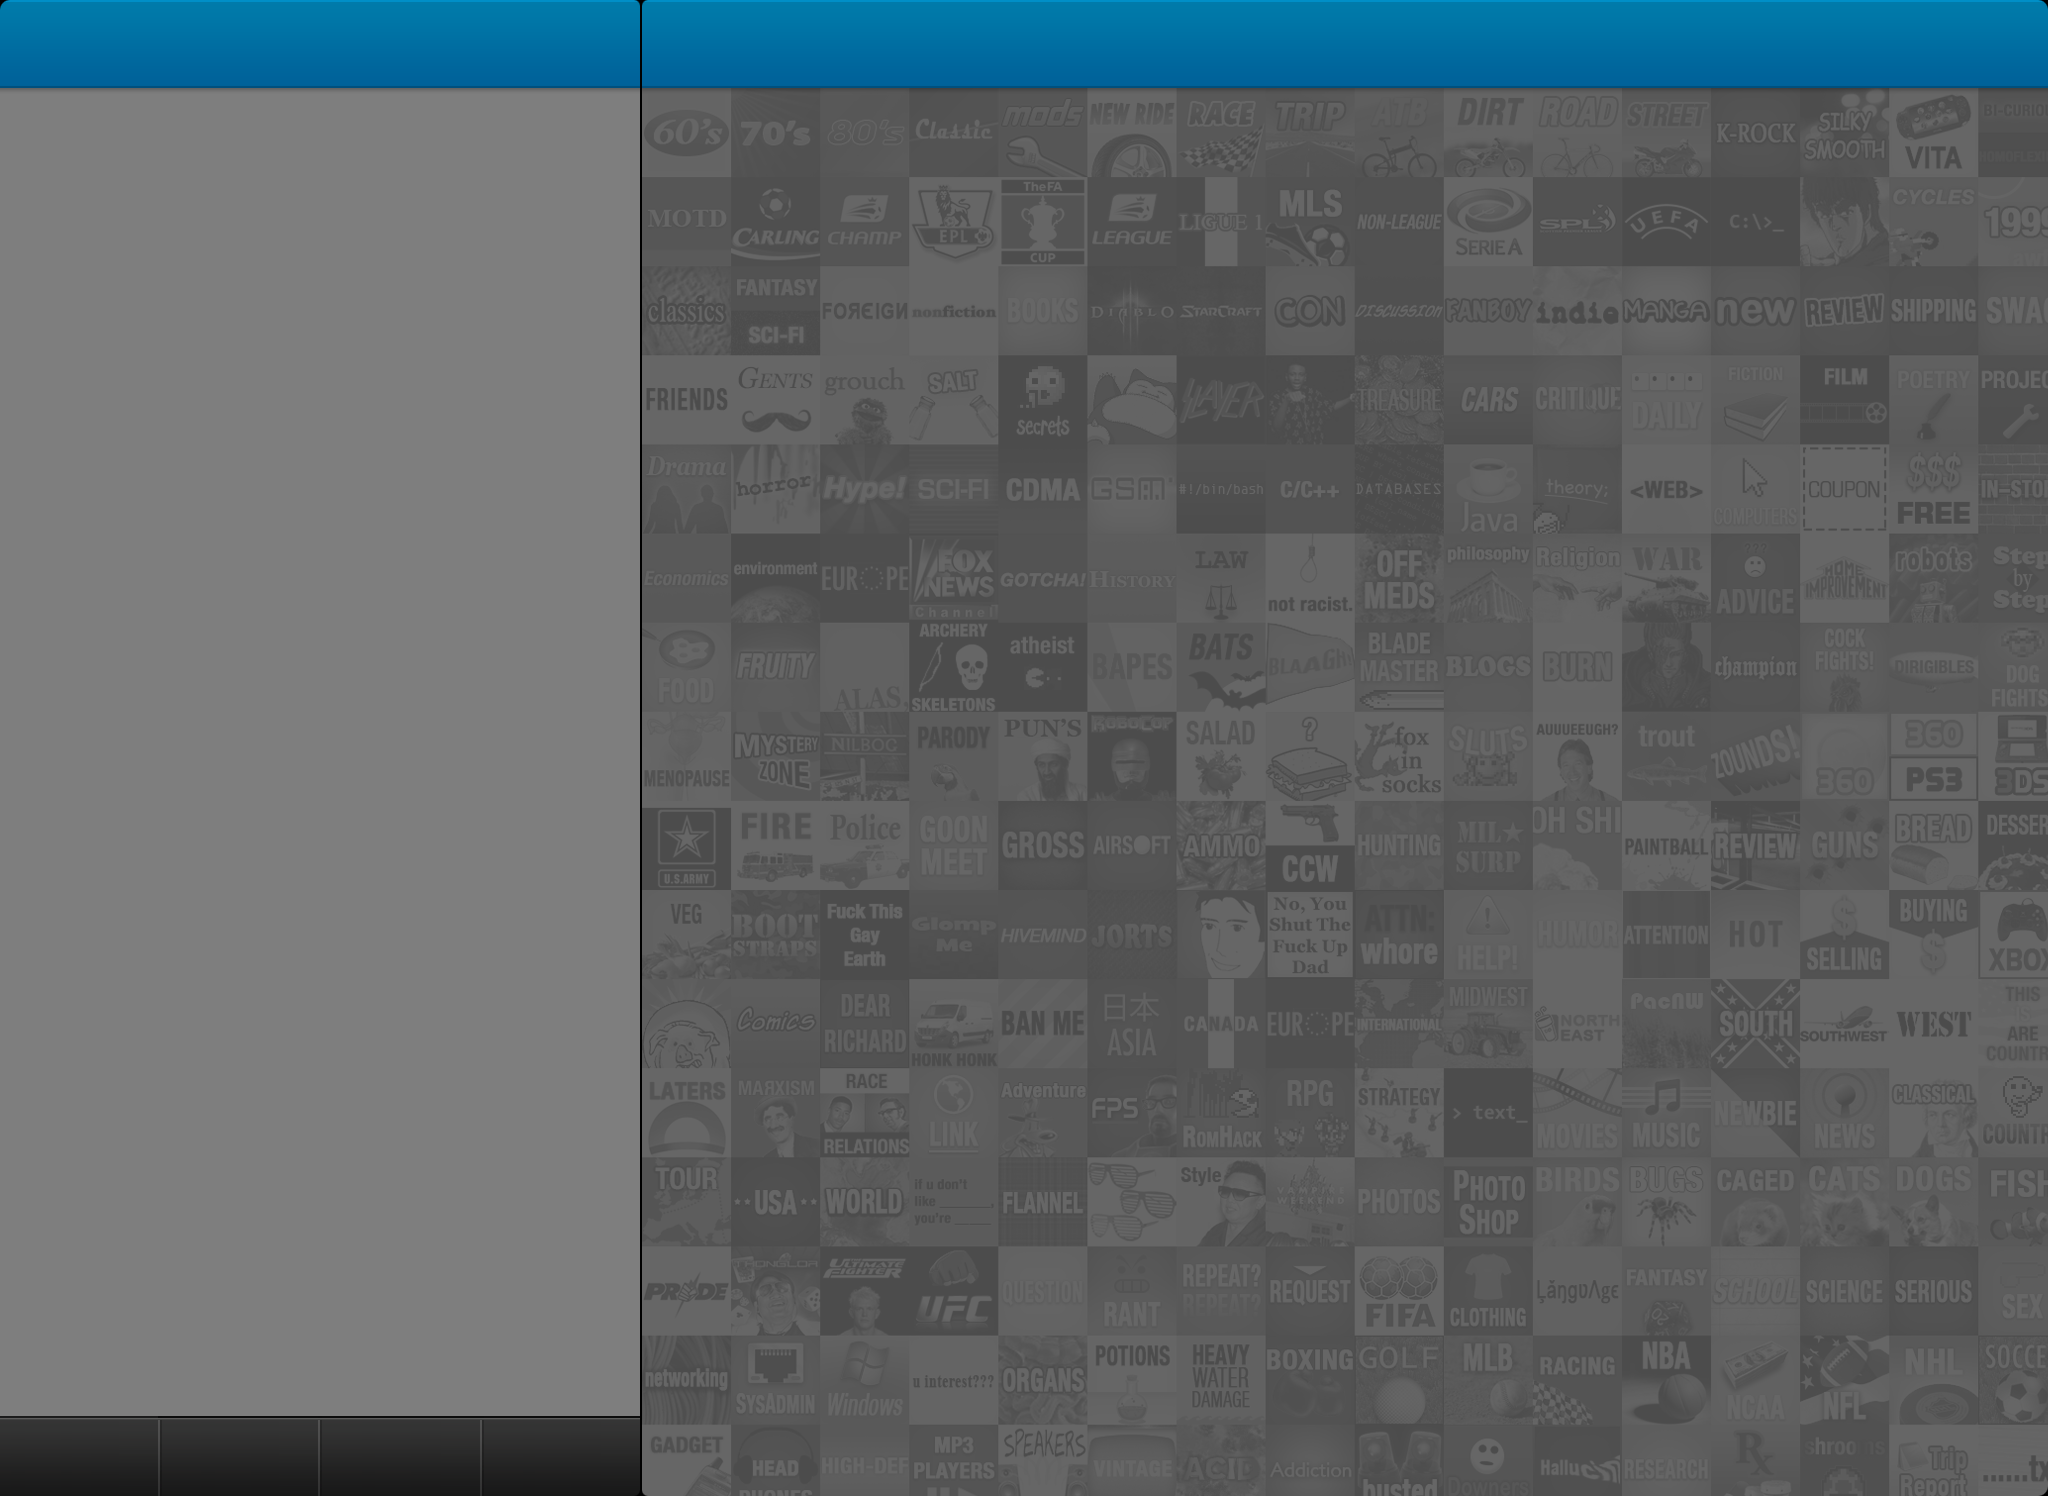
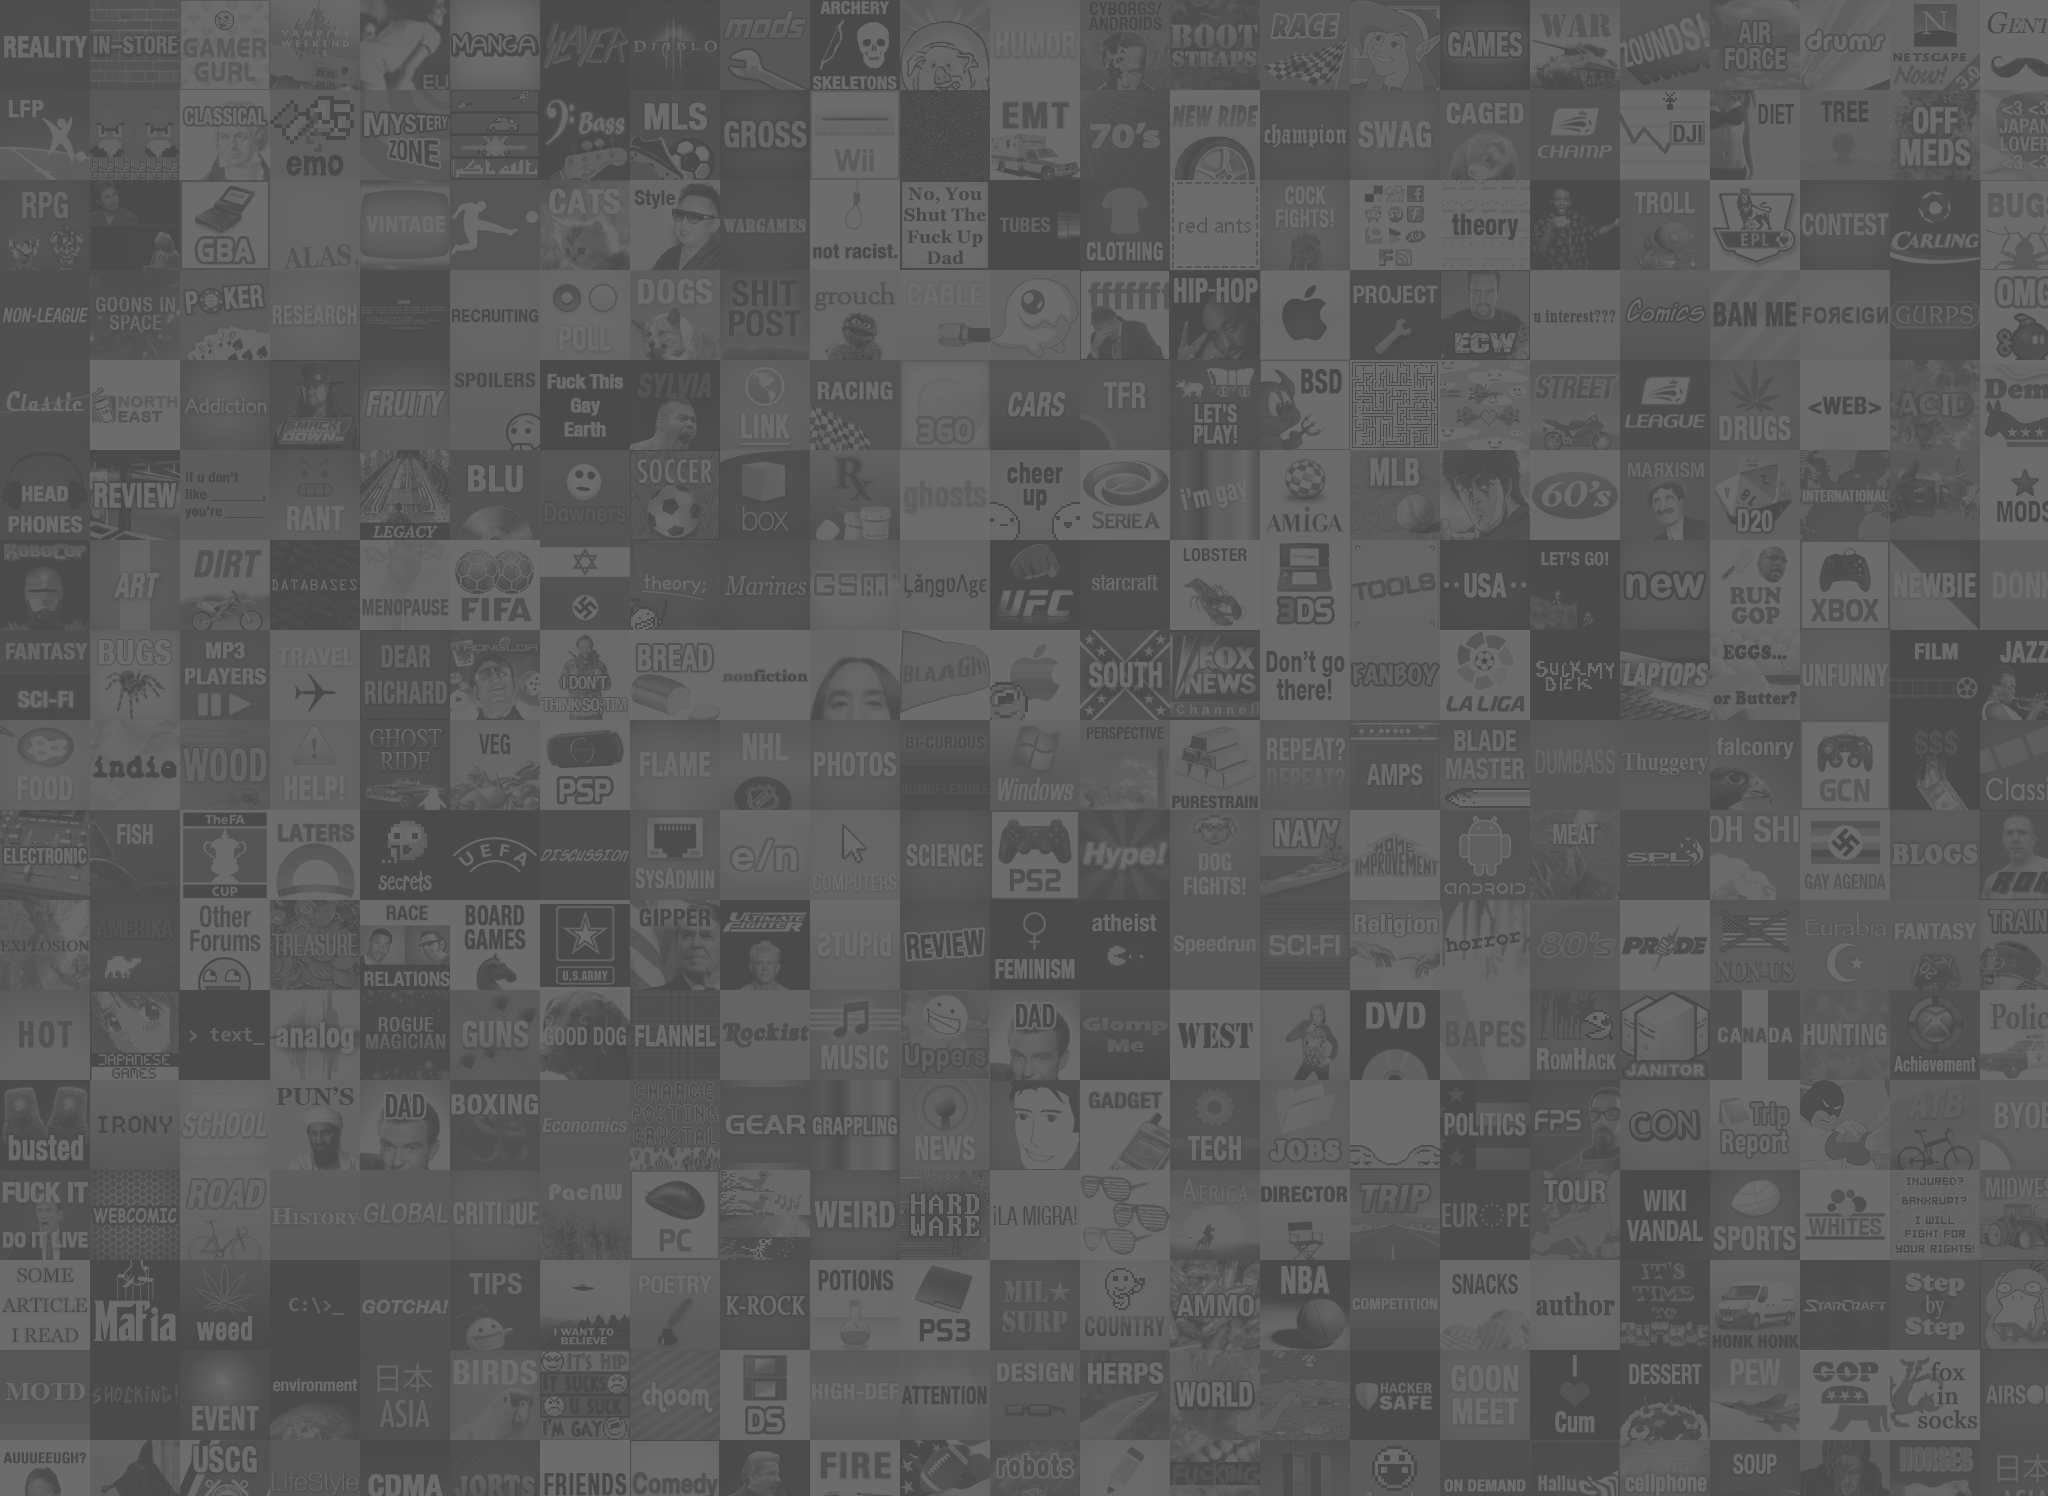
Update and consolidate tag collage, and use it for Default.png.

diff --git a/Source/Main/AwfulStartViewController.m b/Source/Main/AwfulStartViewController.m
@@ -23,9 +23,9 @@
 - (void)setImageForOrientation:(UIInterfaceOrientation)orientation
 {
     if (UIInterfaceOrientationIsPortrait(orientation)) {
-        self.imageView.image = [UIImage imageNamed:@"tag-collage-Portrait.png"];
+        self.imageView.image = [UIImage imageNamed:@"Default-Portrait"];
     } else {
-        self.imageView.image = [UIImage imageNamed:@"tag-collage-Landscape.png"];
+        self.imageView.image = [UIImage imageNamed:@"Default-Landscape"];
     }
 }
 
@@ -35,7 +35,7 @@
 {
     self.view = [[UIImageView alloc] initWithFrame:[UIScreen mainScreen].applicationFrame];
     self.view.backgroundColor = [UIColor darkGrayColor];
-    self.view.contentMode = UIViewContentModeTopLeft;
+    self.view.contentMode = UIViewContentModeBottomRight;
 }
 
 - (void)viewDidLoad
